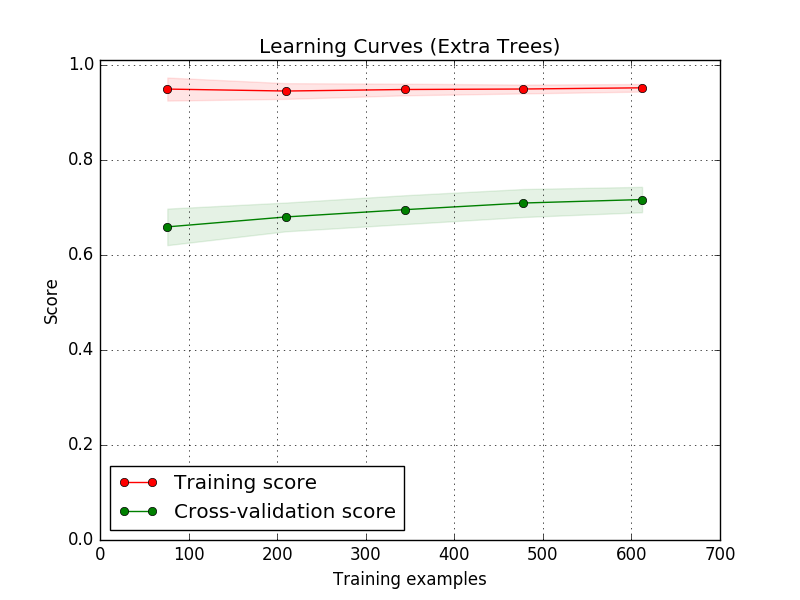
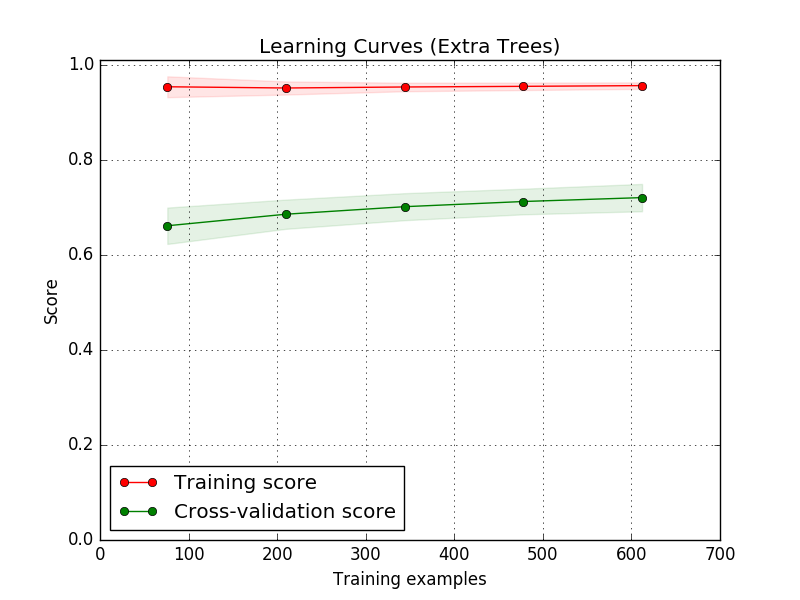
Updating learning curves and accuracies with features differences

Changed region(s): [[0.1875, 0.12, 0.8125, 0.18], [0.1875, 0.3, 0.8125, 0.39]]

diff --git a/results/plot_learning_curves.py b/results/plot_learning_curves.py
@@ -105,24 +105,24 @@ cv = ShuffleSplit(n_splits=100, test_size=0.2, random_state=0)
 #plot_learning_curve(estimator, title, features[['diff_mfcc', 'diff_chroma', 'similar_dissimilar_chroma', 'similar_dissimilar_mfcc']], features[['ab_gt_ac']], ylim=(0.0, 1.01), cv=cv, n_jobs=4)
 
 #Logistic
-title = "Learning Curves (Logistic)"
-estimator = linear_model.LogisticRegressionCV(max_iter=10000, solver="saga")#(max_iter=10, solver="liblinear")
-plot_learning_curve(estimator, title, features[['diff_mfcc', 'diff_chroma', 'similar_dissimilar_chroma', 'similar_dissimilar_mfcc']], features[['ab_gt_ac']], ylim=(0.0, 1.01), cv=cv, n_jobs=4)
+#title = "Learning Curves (Logistic)"
+#estimator = linear_model.LogisticRegressionCV(max_iter=10000, solver="saga")#(max_iter=10, solver="liblinear")
+#plot_learning_curve(estimator, title, features[['diff_mfcc', 'diff_chroma', 'similar_dissimilar_chroma', 'similar_dissimilar_mfcc']], features[['ab_gt_ac']], ylim=(0.0, 1.01), cv=cv, n_jobs=4)
 
 #Extra Trees
 #title = "Learning Curves (Extra Trees)"
-#estimator = ExtraTreesClassifier(n_estimators=20, bootstrap=False, criterion="entropy", max_features="auto", max_depth=None, #min_samples_split=4, min_samples_leaf=2, n_jobs=-1)
+#estimator = ExtraTreesClassifier(n_estimators=60, bootstrap=False, criterion="entropy", max_features="auto", max_depth=None, #min_samples_split=4, min_samples_leaf=2, n_jobs=-1)
 #plot_learning_curve(estimator, title, features[['diff_mfcc', 'diff_chroma', 'similar_dissimilar_chroma', 'similar_dissimilar_mfcc']], features[['ab_gt_ac']], ylim=(0.0, 1.01), cv=cv, n_jobs=4)
 
 #Random Forest
-#title = "Learning Curves (Random Forest)"
-#estimator = RandomForestClassifier(n_estimators=60, bootstrap=True, criterion="entropy", max_features="auto", max_depth=None, #min_samples_split=8, min_samples_leaf=4, n_jobs=-1)#RandomForestClassifier(n_estimators=1000, criterion="entropy")
-#plot_learning_curve(estimator, title, features[['diff_mfcc', 'diff_chroma', 'similar_dissimilar_chroma', 'similar_dissimilar_mfcc']], features[['ab_gt_ac']], ylim=(0.0, 1.01), cv=cv, n_jobs=4)
+title = "Learning Curves (Random Forest)"
+estimator = RandomForestClassifier(n_estimators=1000, bootstrap=False, criterion="gini", max_features="auto", max_depth=None, min_samples_split=32, min_samples_leaf=2, n_jobs=-1)#RandomForestClassifier(n_estimators=1000, criterion="entropy")
+plot_learning_curve(estimator, title, features[['diff_mfcc', 'diff_chroma', 'similar_dissimilar_chroma', 'similar_dissimilar_mfcc']], features[['ab_gt_ac']], ylim=(0.0, 1.01), cv=cv, n_jobs=4)
 
 #Decision Tree
-title = "Learning Curves (Decision Tree)"
-estimator = DecisionTreeClassifier(criterion="gini", splitter="best", max_depth=None, min_samples_split=16, min_samples_leaf=8)#(criterion="gini", splitter="best", max_depth=None, min_samples_split=4, min_samples_leaf=16)
-plot_learning_curve(estimator, title, features[['diff_mfcc', 'diff_chroma', 'similar_dissimilar_chroma', 'similar_dissimilar_mfcc']], features[['ab_gt_ac']], ylim=(0.0, 1.01), cv=cv, n_jobs=4)
+#title = "Learning Curves (Decision Tree)"
+#estimator = DecisionTreeClassifier(criterion="gini", splitter="best", max_depth=None, min_samples_split=16, min_samples_leaf=8)#(criterion="gini", splitter="best", max_depth=None, min_samples_split=4, min_samples_leaf=16)
+#plot_learning_curve(estimator, title, features[['diff_mfcc', 'diff_chroma', 'similar_dissimilar_chroma', 'similar_dissimilar_mfcc']], features[['ab_gt_ac']], ylim=(0.0, 1.01), cv=cv, n_jobs=4)
 
 #title = "Learning Curves (SVM, RBF kernel, $\gamma=0.001$)"
 # SVC is more expensive so we do a lower number of CV iterations:

diff --git a/results/classifiers.py b/results/classifiers.py
@@ -171,6 +171,8 @@ if __name__ == "__main__":
 			#CONF Decision Tree	gini	random	None	2	16
 			#CONF Decision Tree	gini	random	None	4	16
 			#CONF Logistic	10	liblinear
+			#CONF Extra Trees	entropy	False	60	auto	None	4	2 -> with differences
+			#CONF Random Forest	gini	False	1000	auto	None	32	2 -> with differences
 			#CONF Decision Tree	gini	random	None	16	8 -> with differences
 			#CONF Logistic	10000	saga -> with differences
 		
